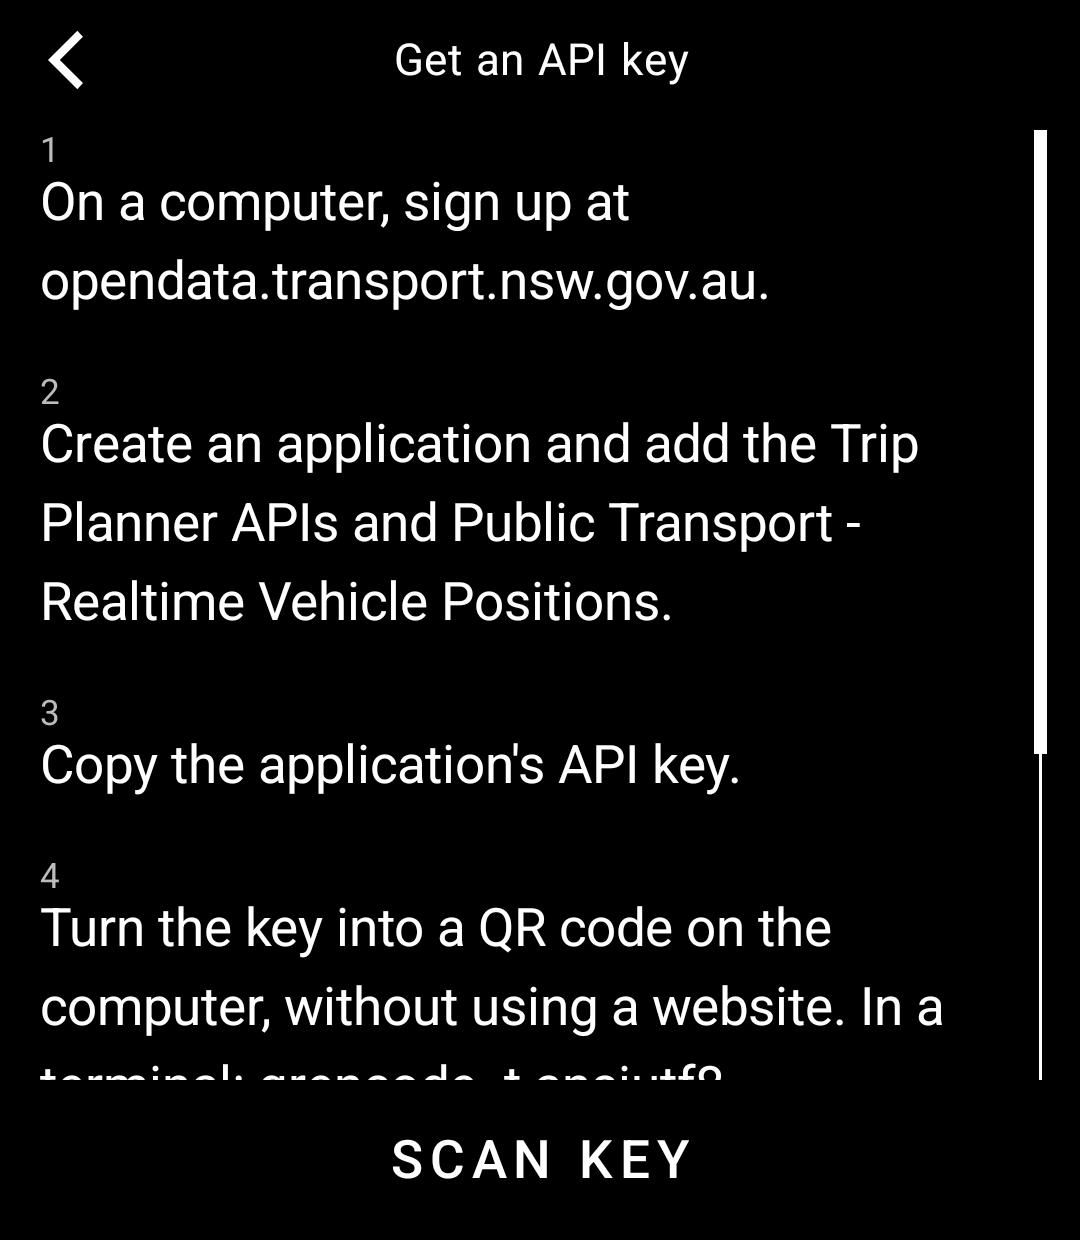
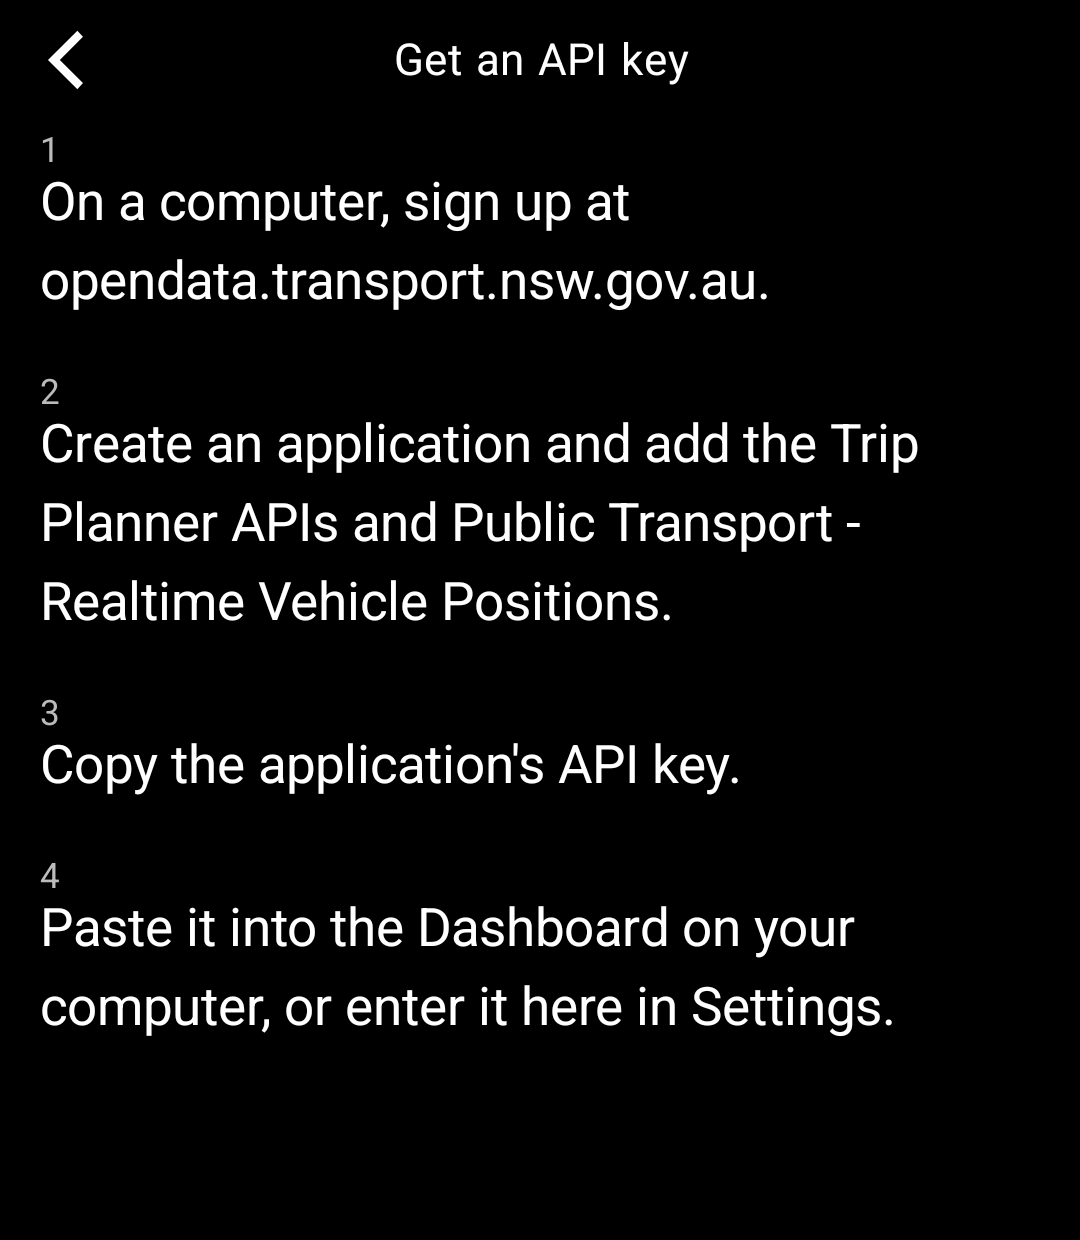
Point to the Dashboard for entering the API key; drop QR code instructions

diff --git a/tool/src/main/kotlin/io/github/vrlmvg/nswtrains/KeyHelpScreen.kt b/tool/src/main/kotlin/io/github/vrlmvg/nswtrains/KeyHelpScreen.kt
@@ -8,8 +8,6 @@ import androidx.compose.runtime.Composable
 import androidx.compose.ui.Modifier
 import com.thelightphone.sdk.SealedLightActivity
 import com.thelightphone.sdk.SimpleLightScreen
-import com.thelightphone.sdk.ui.LightBarButton
-import com.thelightphone.sdk.ui.LightBottomBar
 import com.thelightphone.sdk.ui.LightScrollView
 import com.thelightphone.sdk.ui.LightText
 import com.thelightphone.sdk.ui.LightTextVariant
@@ -19,14 +17,11 @@ private val STEPS = listOf(
     "On a computer, sign up at opendata.transport.nsw.gov.au.",
     "Create an application and add the Trip Planner APIs and Public Transport - Realtime Vehicle Positions.",
     "Copy the application's API key.",
-    "Turn the key into a QR code on the computer, without using a website. " +
-        "In a terminal: qrencode -t ansiutf8 'YOUR_KEY'. " +
-        "More ways: github.com/vrlmvg/light-nsw-trains",
-    "Tap SCAN KEY below and point the camera at the QR code.",
+    "Paste it into the Dashboard on your computer, or enter it here in Settings.",
 )
 
-/** How to get a key and scan it as a QR code. Returns true when the user wants to scan now. */
-class KeyHelpScreen(sealedActivity: SealedLightActivity) : SimpleLightScreen<Boolean>(sealedActivity) {
+/** How to get a Transport for NSW API key. */
+class KeyHelpScreen(sealedActivity: SealedLightActivity) : SimpleLightScreen<Unit>(sealedActivity) {
     @Composable
     override fun Content() {
         TrainsTheme {
@@ -45,7 +40,6 @@ class KeyHelpScreen(sealedActivity: SealedLightActivity) : SimpleLightScreen<Boo
                         }
                     }
                 }
-                LightBottomBar(items = listOf(LightBarButton.Text(text = "SCAN KEY", onClick = { goBack(true) })))
             }
         }
     }

diff --git a/tool/src/main/kotlin/io/github/vrlmvg/nswtrains/SettingsScreen.kt b/tool/src/main/kotlin/io/github/vrlmvg/nswtrains/SettingsScreen.kt
@@ -120,9 +120,7 @@ class SettingsScreen(
     }
 
     private fun showKeyHelp() {
-        navigateTo(screenFactory = { KeyHelpScreen(it) }) { scanNow ->
-            if (scanNow) scanKey()
-        }
+        navigateTo(screenFactory = { KeyHelpScreen(it) })
     }
 
     @Composable
@@ -192,6 +190,7 @@ class SettingsScreen(
                     ) {
                         LightText(
                             text = "Get a free key at opendata.transport.nsw.gov.au\n" +
+                                "You can also enter your key via the Dashboard\n" +
                                 "Timetable data © Transport for NSW",
                             variant = LightTextVariant.Fine,
                             align = TextAlign.Center,

diff --git a/.github/README.md b/.github/README.md
@@ -30,35 +30,10 @@ in the tool under **Settings → No key yet?**
 2. Create an application and add the **Trip Planner APIs** and the **Public Transport - Realtime Vehicle
    Positions** APIs to it.
 3. Copy the application's API key.
-4. Turn the key into a QR code on your computer (see below).
-5. In the tool, open **Settings → Scan API key** and point the phone at the QR code on your screen.
+4. Paste it into the Dashboard on your computer, or enter it in the tool under
+   **Settings → Transport for NSW API key**.
 
 <img src="screenshots/5-key-help.png" width="200" alt="Key setup steps in the tool">
-
-### Turning the key into a QR code
-
-The key is too long to type comfortably, so the tool scans it from a QR code. The QR code must contain only the
-key. Make it on your own computer: an online QR generator would get a copy of your key.
-
-**macOS** (with [Homebrew](https://brew.sh)) or **Linux**: install `qrencode`
-(`brew install qrencode`, `sudo apt install qrencode` or `sudo dnf install qrencode`), then run
-
-```sh
-qrencode -t ansiutf8 'YOUR_KEY'
-```
-
-The QR code appears right in the terminal. If it's too big for the window, make the terminal font smaller.
-
-**Windows, macOS or Linux with Python**: run
-
-```sh
-pip install qrcode
-qr 'YOUR_KEY'
-```
-
-On Windows, use double quotes instead: `qr "YOUR_KEY"`.
-
-You can also type the key in **Settings → Transport for NSW API key** if you prefer.
 
 ## Install
 
